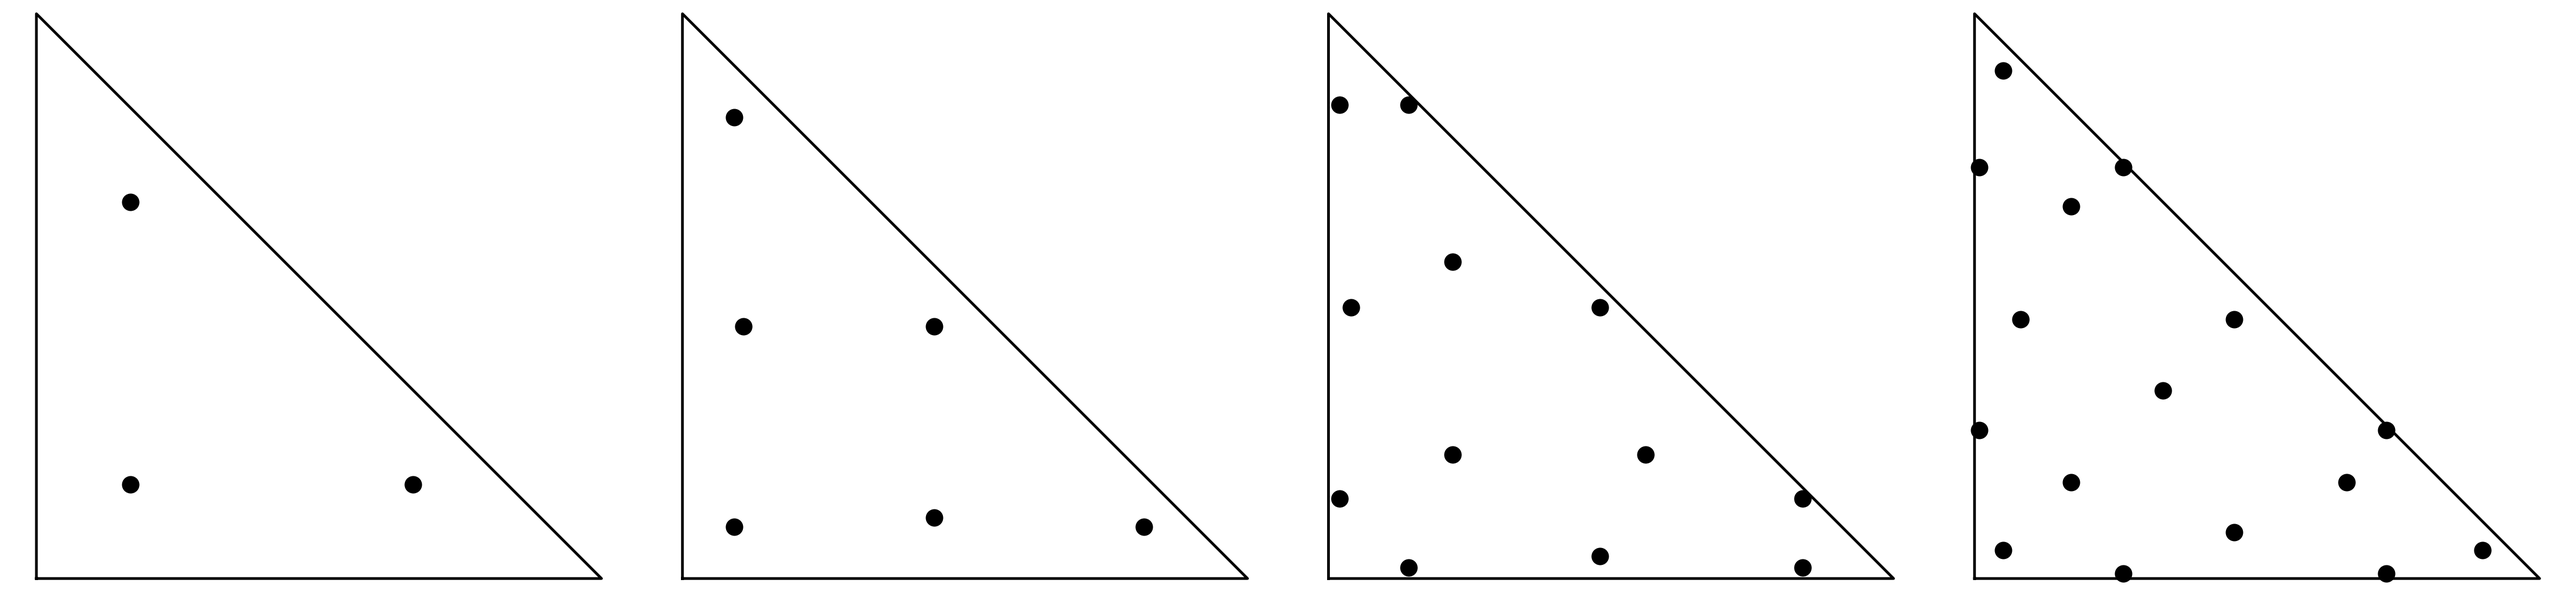
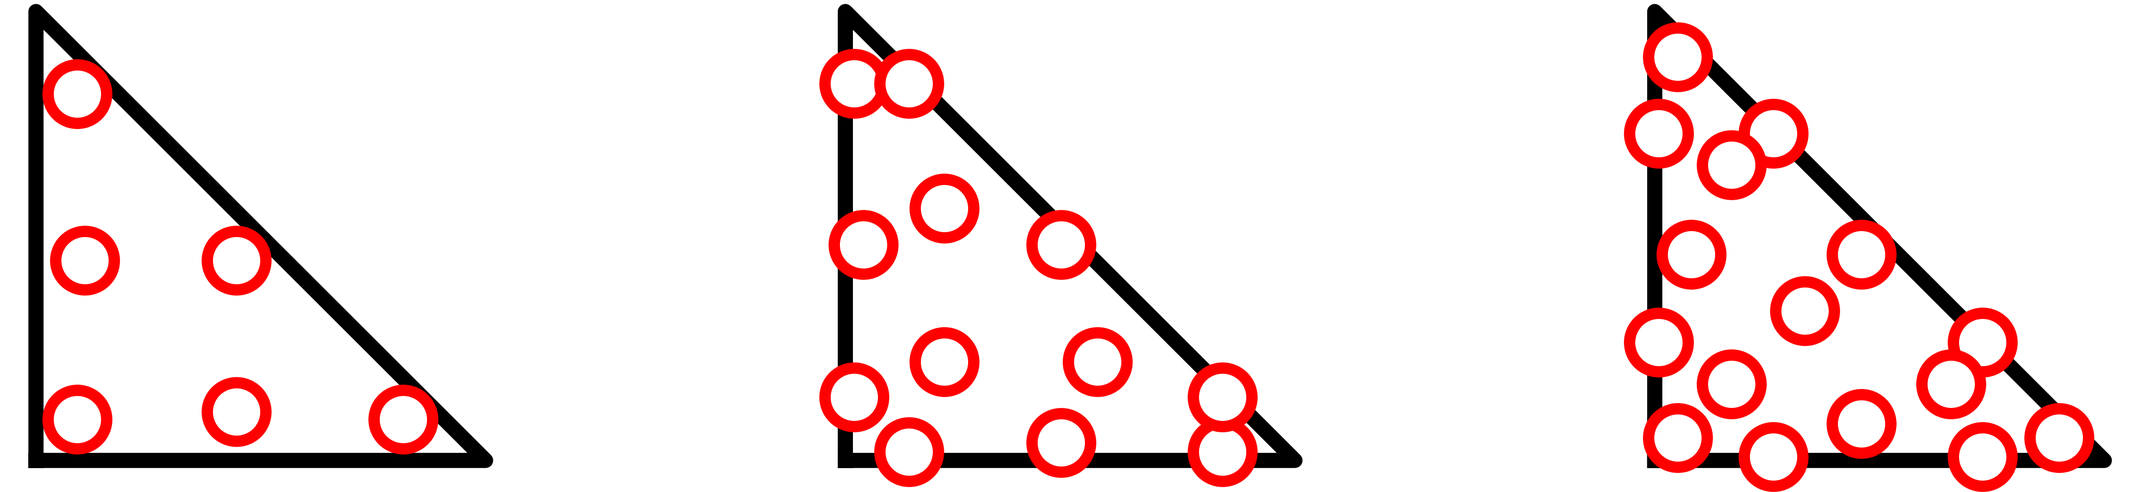
finish Profs. requess

diff --git a/index.html b/index.html
@@ -478,7 +478,7 @@
               <div class="sub-card">
                 <span class="sub-card-title">2. Octahedral Mapping</span>
                 <div style="position: relative; width: 100%; margin: 2px 0;">
-                  <img src="Octahedral_Mapping_v4.png" alt="Octahedral Mapping" style="width: 100%; display: block;">
+                  <img src="Octahedral_Mapping_v5.png" alt="Octahedral Mapping" style="width: 100%; display: block;">
                   <div class="equation-container" style="position: absolute; top: 4px; right: 4px; font-size: 0.56rem; padding: 2px 5px; background: rgba(248, 250, 252, 0.95); border: 1px solid #cbd5e1; border-radius: 3px; z-index: 2; margin: 0; box-shadow: 0 1px 3px rgba(0,0,0,0.08);">
                     $$\mathbf{x}_p = R \frac{\mathbf{x}_{\text{flat}}}{\|\mathbf{x}_{\text{flat}}\|}$$
                   </div>
@@ -545,6 +545,9 @@
             <li style="margin-bottom: 2px;">
               M. H. Carpenter and C. A. Kennedy, "Fourth-order 2N-storage Runge-Kutta schemes," Technical Report NASA-TM-109112, NASA Langley Research Center, 1994.
             </li>
+            <li style="margin-bottom: 2px;">
+              E. Praun and H. Hoppe, "Spherical Parametrization and Remeshing," <em>ACM Transactions on Graphics (SIGGRAPH 2003)</em>, 22(3): 340–349, 2003.
+            </li>
           </ol>
         </div>
 
@@ -605,7 +608,7 @@
             <div class="error-sub-block">
               <strong style="font-size: 0.60rem; color: var(--tsfd-navy);">Relative $L^2$ Error</strong>
               <div class="equation-container" style="font-size: 0.67rem; padding: 0; border: none; background: transparent;">
-                $$\|e\|_2 = \sqrt{\frac{\int_{\Omega} J(q - q_{\text{ex}})^2 d\Omega}{\int_{\Omega} Jq_{\text{ex}}^2 d\Omega}}$$
+                $\|e\|_2 = \sqrt{\frac{\int_{\Omega} J(q - q_{\text{ex}})^2 d\Omega}{\int_{\Omega} Jq_{\text{ex}}^2 d\Omega}}$
               </div>
             </div>
 
@@ -613,7 +616,7 @@
             <div class="error-sub-block">
               <strong style="font-size: 0.60rem; color: var(--tsfd-navy);">Relative $L^\infty$ Error</strong>
               <div class="equation-container" style="font-size: 0.67rem; padding: 0; border: none; background: transparent;">
-                $$\|e\|_\infty = \frac{\max_{\Omega} |q - q_{\text{ex}}|}{\max_{\Omega} |q_{\text{ex}}|}$$
+                $\|e\|_\infty = \frac{\max_{\Omega} |q - q_{\text{ex}}|}{\max_{\Omega} |q_{\text{ex}}|}$
               </div>
             </div>
 
@@ -621,7 +624,7 @@
             <div class="error-sub-block">
               <strong style="font-size: 0.60rem; color: var(--tsfd-navy);">Relative Mass Error</strong>
               <div class="equation-container" style="font-size: 0.67rem; padding: 0; border: none; background: transparent;">
-                $$\Delta M_{\text{rel}} = \frac{\int_\Omega J(q - q_0) d\Omega}{\int_\Omega Jq_0 d\Omega}$$
+                $\Delta M_{\text{rel}} = \frac{\int_\Omega J(q - q_0) d\Omega}{\int_\Omega Jq_0 d\Omega}$
               </div>
             </div>
           </div>
@@ -643,9 +646,9 @@
                 </tr>
               </thead>
               <tbody>
-                <!-- Table 1 Block (Rowspan 6) -->
+                <!-- Table 1 Block (Rowspan 9) -->
                 <tr>
-                  <td rowspan="6" style="font-size: 0.58rem; font-weight: bold;">edge and interior pts.</td>
+                  <td rowspan="9" style="font-size: 0.58rem; font-weight: bold;">edge and interior pts.</td>
                   <td rowspan="3">2</td>
                   <td>16</td><td>20,480</td><td>3.869e-03</td><td>3.55</td><td>6.527e-03</td><td>3.08</td><td>-5.87e-15</td>
                 </tr>
@@ -654,6 +657,17 @@
                 </tr>
                 <tr class="exp-divider">
                   <td>64</td><td>327,680</td><td>2.415e-05</td><td>3.55</td><td>9.860e-05</td><td>2.62</td><td>-2.40e-14</td>
+                </tr>
+
+                <tr>
+                  <td rowspan="3">3</td>
+                  <td>16</td><td>36,864</td><td>1.035e-04</td><td>4.22</td><td>2.178e-04</td><td>3.79</td><td>-1.07e-15</td>
+                </tr>
+                <tr>
+                  <td>32</td><td>147,456</td><td>5.210e-06</td><td>4.31</td><td>2.040e-05</td><td>3.42</td><td>-1.47e-15</td>
+                </tr>
+                <tr class="exp-divider">
+                  <td>64</td><td>589,824</td><td>2.549e-07</td><td>4.35</td><td>1.200e-06</td><td>4.09</td><td>-4.40e-15</td>
                 </tr>
 
                 <tr>
@@ -667,9 +681,9 @@
                   <td>64</td><td>720,896</td><td>1.158e-08</td><td>5.19</td><td>2.434e-08</td><td>5.21</td><td>1.81e-14</td>
                 </tr>
 
-                <!-- Table 2 Block (Rowspan 6) -->
+                <!-- Table 2 Block (Rowspan 9) -->
                 <tr>
-                  <td rowspan="6" style="font-size: 0.58rem; font-weight: bold;">interior pts.</td>
+                  <td rowspan="9" style="font-size: 0.58rem; font-weight: bold;">interior pts.</td>
                   <td rowspan="3">2</td>
                   <td>16</td><td>12,288</td><td>4.008e-04</td><td>4.42</td><td>7.482e-04</td><td>4.31</td><td>6.27e-15</td>
                 </tr>
@@ -678,6 +692,17 @@
                 </tr>
                 <tr class="exp-divider">
                   <td>64</td><td>196,608</td><td>2.873e-06</td><td>3.22</td><td>6.326e-06</td><td>3.02</td><td>3.04e-14</td>
+                </tr>
+
+                <tr>
+                  <td rowspan="3">3</td>
+                  <td>16</td><td>24,576</td><td>3.266e-05</td><td>4.36</td><td>4.690e-05</td><td>4.67</td><td>-2.13e-14</td>
+                </tr>
+                <tr>
+                  <td>32</td><td>98,304</td><td>1.932e-06</td><td>4.08</td><td>2.862e-06</td><td>4.03</td><td>-4.39e-14</td>
+                </tr>
+                <tr class="exp-divider">
+                  <td>64</td><td>393,216</td><td>1.133e-07</td><td>4.09</td><td>1.750e-07</td><td>4.03</td><td>-8.75e-14</td>
                 </tr>
 
                 <tr>
@@ -714,7 +739,7 @@
           <ul style="margin-left: 12px; font-size: 0.67rem; line-height: 1.32;">
             <li><strong>Singularity-Free Geometric Mapping:</strong> Eliminates coordinate pole singularities, providing uniform resolution across the sphere.</li>
             <li><strong>Machine-Precision Conservation & Stability:</strong> Achieves exact mass conservation down to machine precision ($\Delta M_{\text{rel}} \sim 10^{-14}$) and ensures long-term numerical stability.</li>
-            <li><strong>High-Order Convergence:</strong> Solid-body rotation tests confirm designed convergence rates of at least $\mathcal{O}(h^{N+1})$ in relative $L^2$ error norms across all node sets.</li>
+            <li><strong>High-Order Convergence:</strong> Solid-body rotation tests demonstrate that relative \(L^2\) error convergence rates surpass the sub-optimal convergence rate of \(O(h^{N+1/2})\), achieving the optimal \(O(h^{N+1})\) rate asymptotically across all node sets.</li>
           </ul>
         </div>
 
